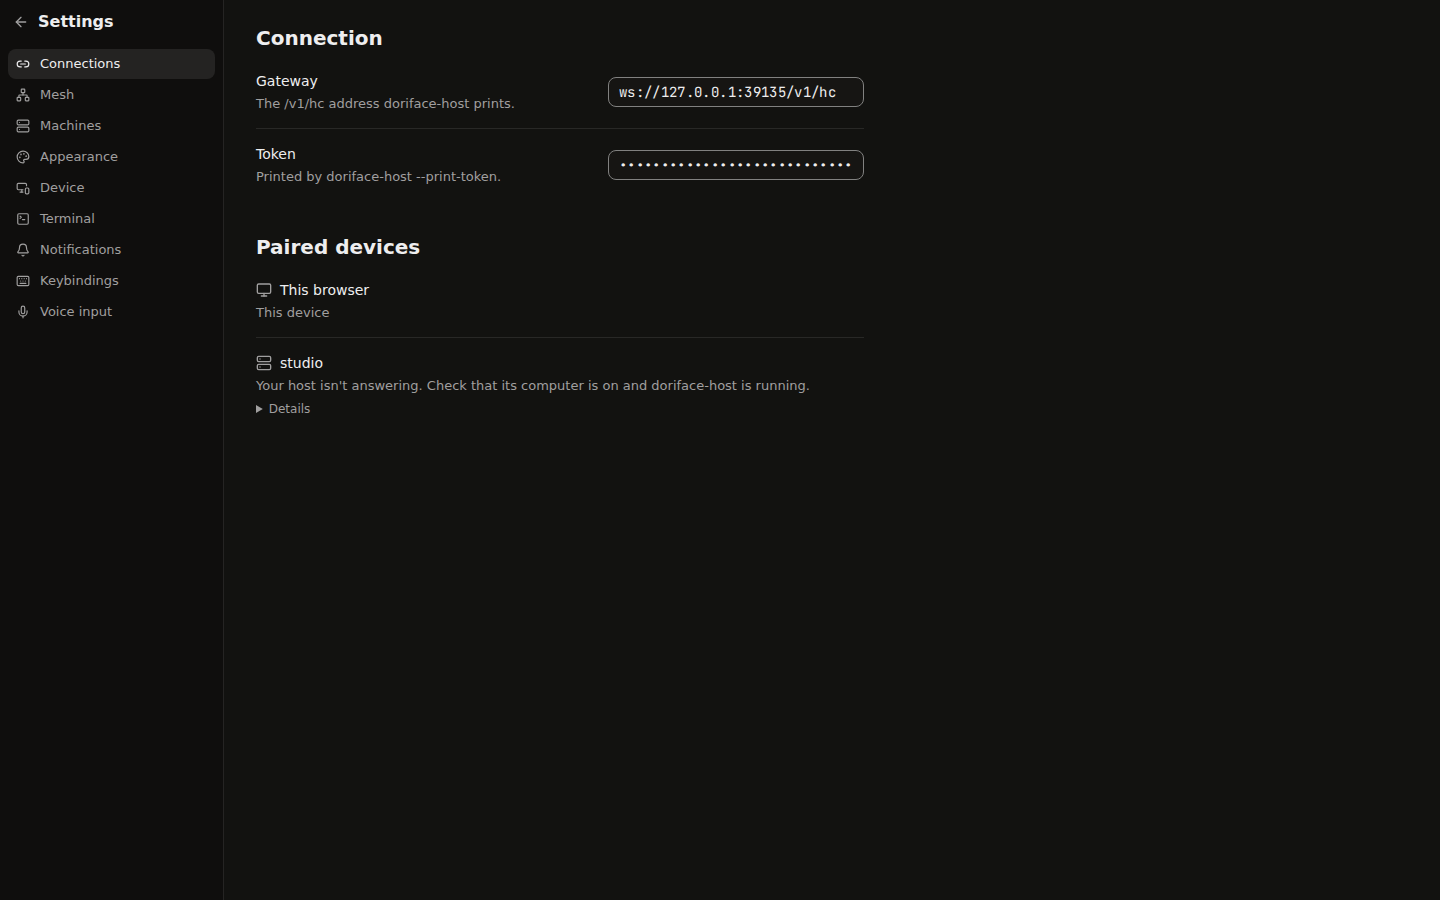
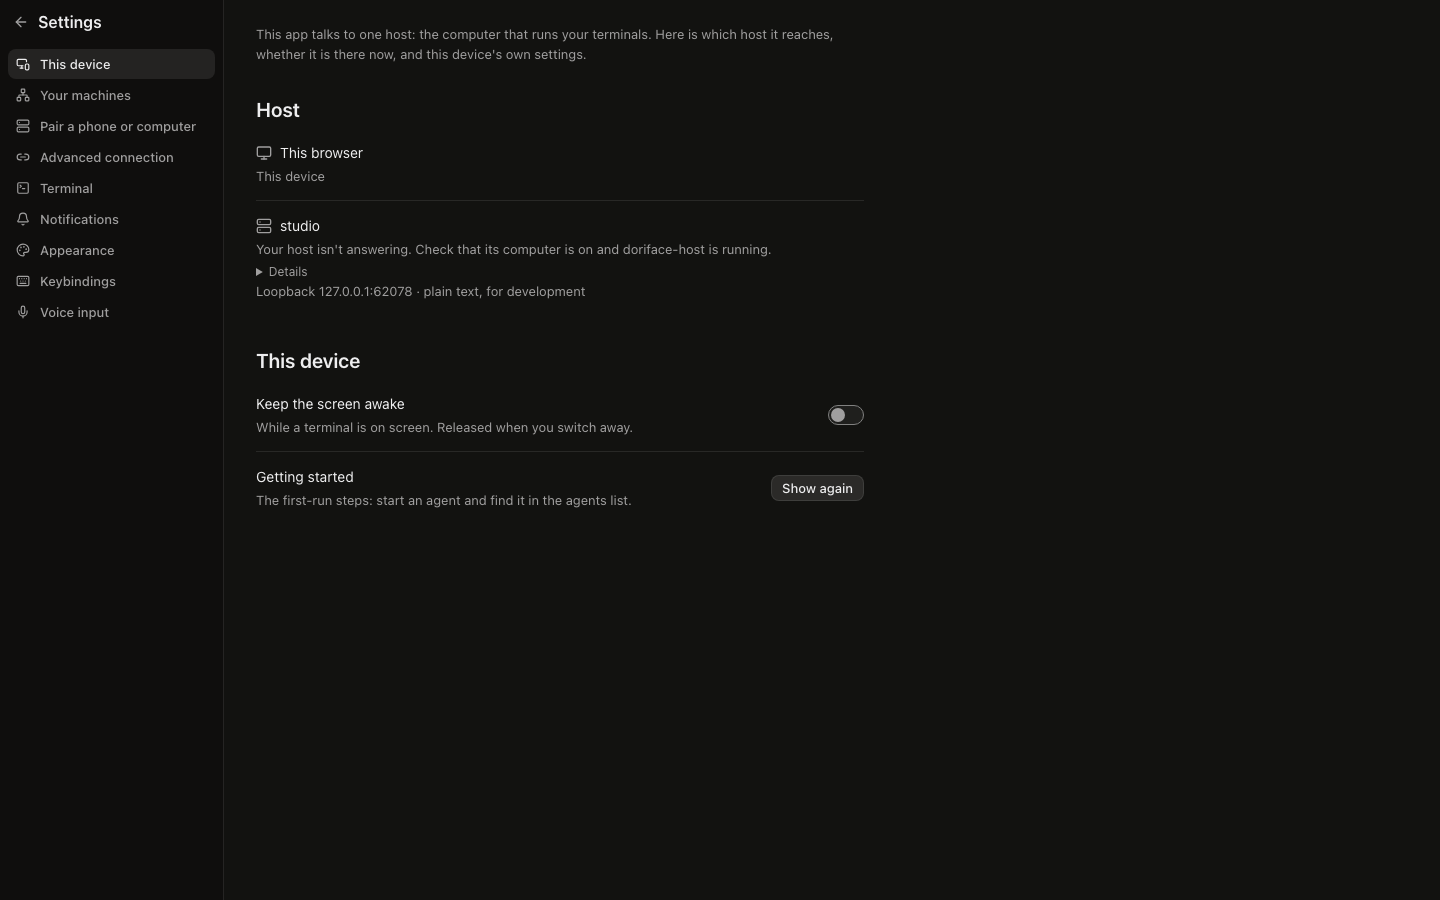
docs: the release note says what the screens show, and four headers follow the rename
The review caught the release note claiming "a connected machine shows how it is reached".
It does not: reach.ts deliberately says nothing about a route and REACH_LABEL reports only
whether this host has a session open now; the route line belongs to the This device host
row alone. The line now says exactly that split, which is what the code does.

Four e2e header comments still named Settings > Connections or Settings > Paired devices;
they name Advanced connection and This device (Host).

diff --git a/apps/web/e2e/paired-devices.e2e.ts b/apps/web/e2e/paired-devices.e2e.ts
@@ -8,7 +8,7 @@ const devices = [
 test.use({ serviceWorkers: "block" });
 
 /**
- * Settings > Paired devices with the desktop shell's two calls answered by a fake, which is the only way a browser spec
+ * Settings > This device (Host) with the desktop shell's two calls answered by a fake, which is the only way a browser spec
  * can reach them: the real ones arrive over IPC from the shell that spawned this computer's host.
  */
 test("settings lists this computer's paired devices and asks before revoking one", async ({ page }, info) => {

diff --git a/apps/web/e2e/connection-relay-only.e2e.ts b/apps/web/e2e/connection-relay-only.e2e.ts
@@ -1,4 +1,4 @@
-// #458: the direct-address feature is hidden. Settings > Connections offers no Direct address and shows the relay with
+// #458: the direct-address feature is hidden. Settings > Advanced connection offers no Direct address and shows the relay with
 // no field to edit it, in a release build and in a dev build (E2E_WEB_MODE=development), and adding a machine offers
 // only the relay path. A dev build still reads another relay and the direct address from saved settings.
 import type { Page } from "@playwright/test";

diff --git a/apps/web/e2e/connection-relay-locked.e2e.ts b/apps/web/e2e/connection-relay-locked.e2e.ts
@@ -1,4 +1,4 @@
-// A release build reaches only the production relay (#389): Settings > Connections offers no relay address to edit and
+// A release build reaches only the production relay (#389): Settings > Advanced connection offers no relay address to edit and
 // no Loopback dev switch, and a custom relay address saved by an older build is never dialled.
 import { devices, type Page } from "@playwright/test";
 import { join } from "node:path";

diff --git a/apps/web/e2e/devices-capture.e2e.ts b/apps/web/e2e/devices-capture.e2e.ts
@@ -1,4 +1,4 @@
-// Settings > Paired devices with the paired host stopped, in both themes at 1440 and 390:
+// Settings > This device (Host) with the paired host stopped, in both themes at 1440 and 390:
 // CAPTURE=1 bunx playwright test devices-capture
 import { type Browser, devices, type Page } from "@playwright/test";
 import { join } from "node:path";

diff --git a/CHANGELOG.md b/CHANGELOG.md
@@ -2,7 +2,7 @@
 
 ## Unreleased
 
-- Settings is one place per question: this device, your machines, pairing, and the advanced connection sit on their own screens with the same names everywhere, so a connected machine shows how it is reached and whether it is there now. (#772)
+- Settings is one place per question: this device, your machines, pairing, and the advanced connection sit on their own screens with the same names everywhere, so each machine shows whether this host has a session open to it now, and this device shows how it reaches the host. (#772)
 
 ### Setting up your machines
 
